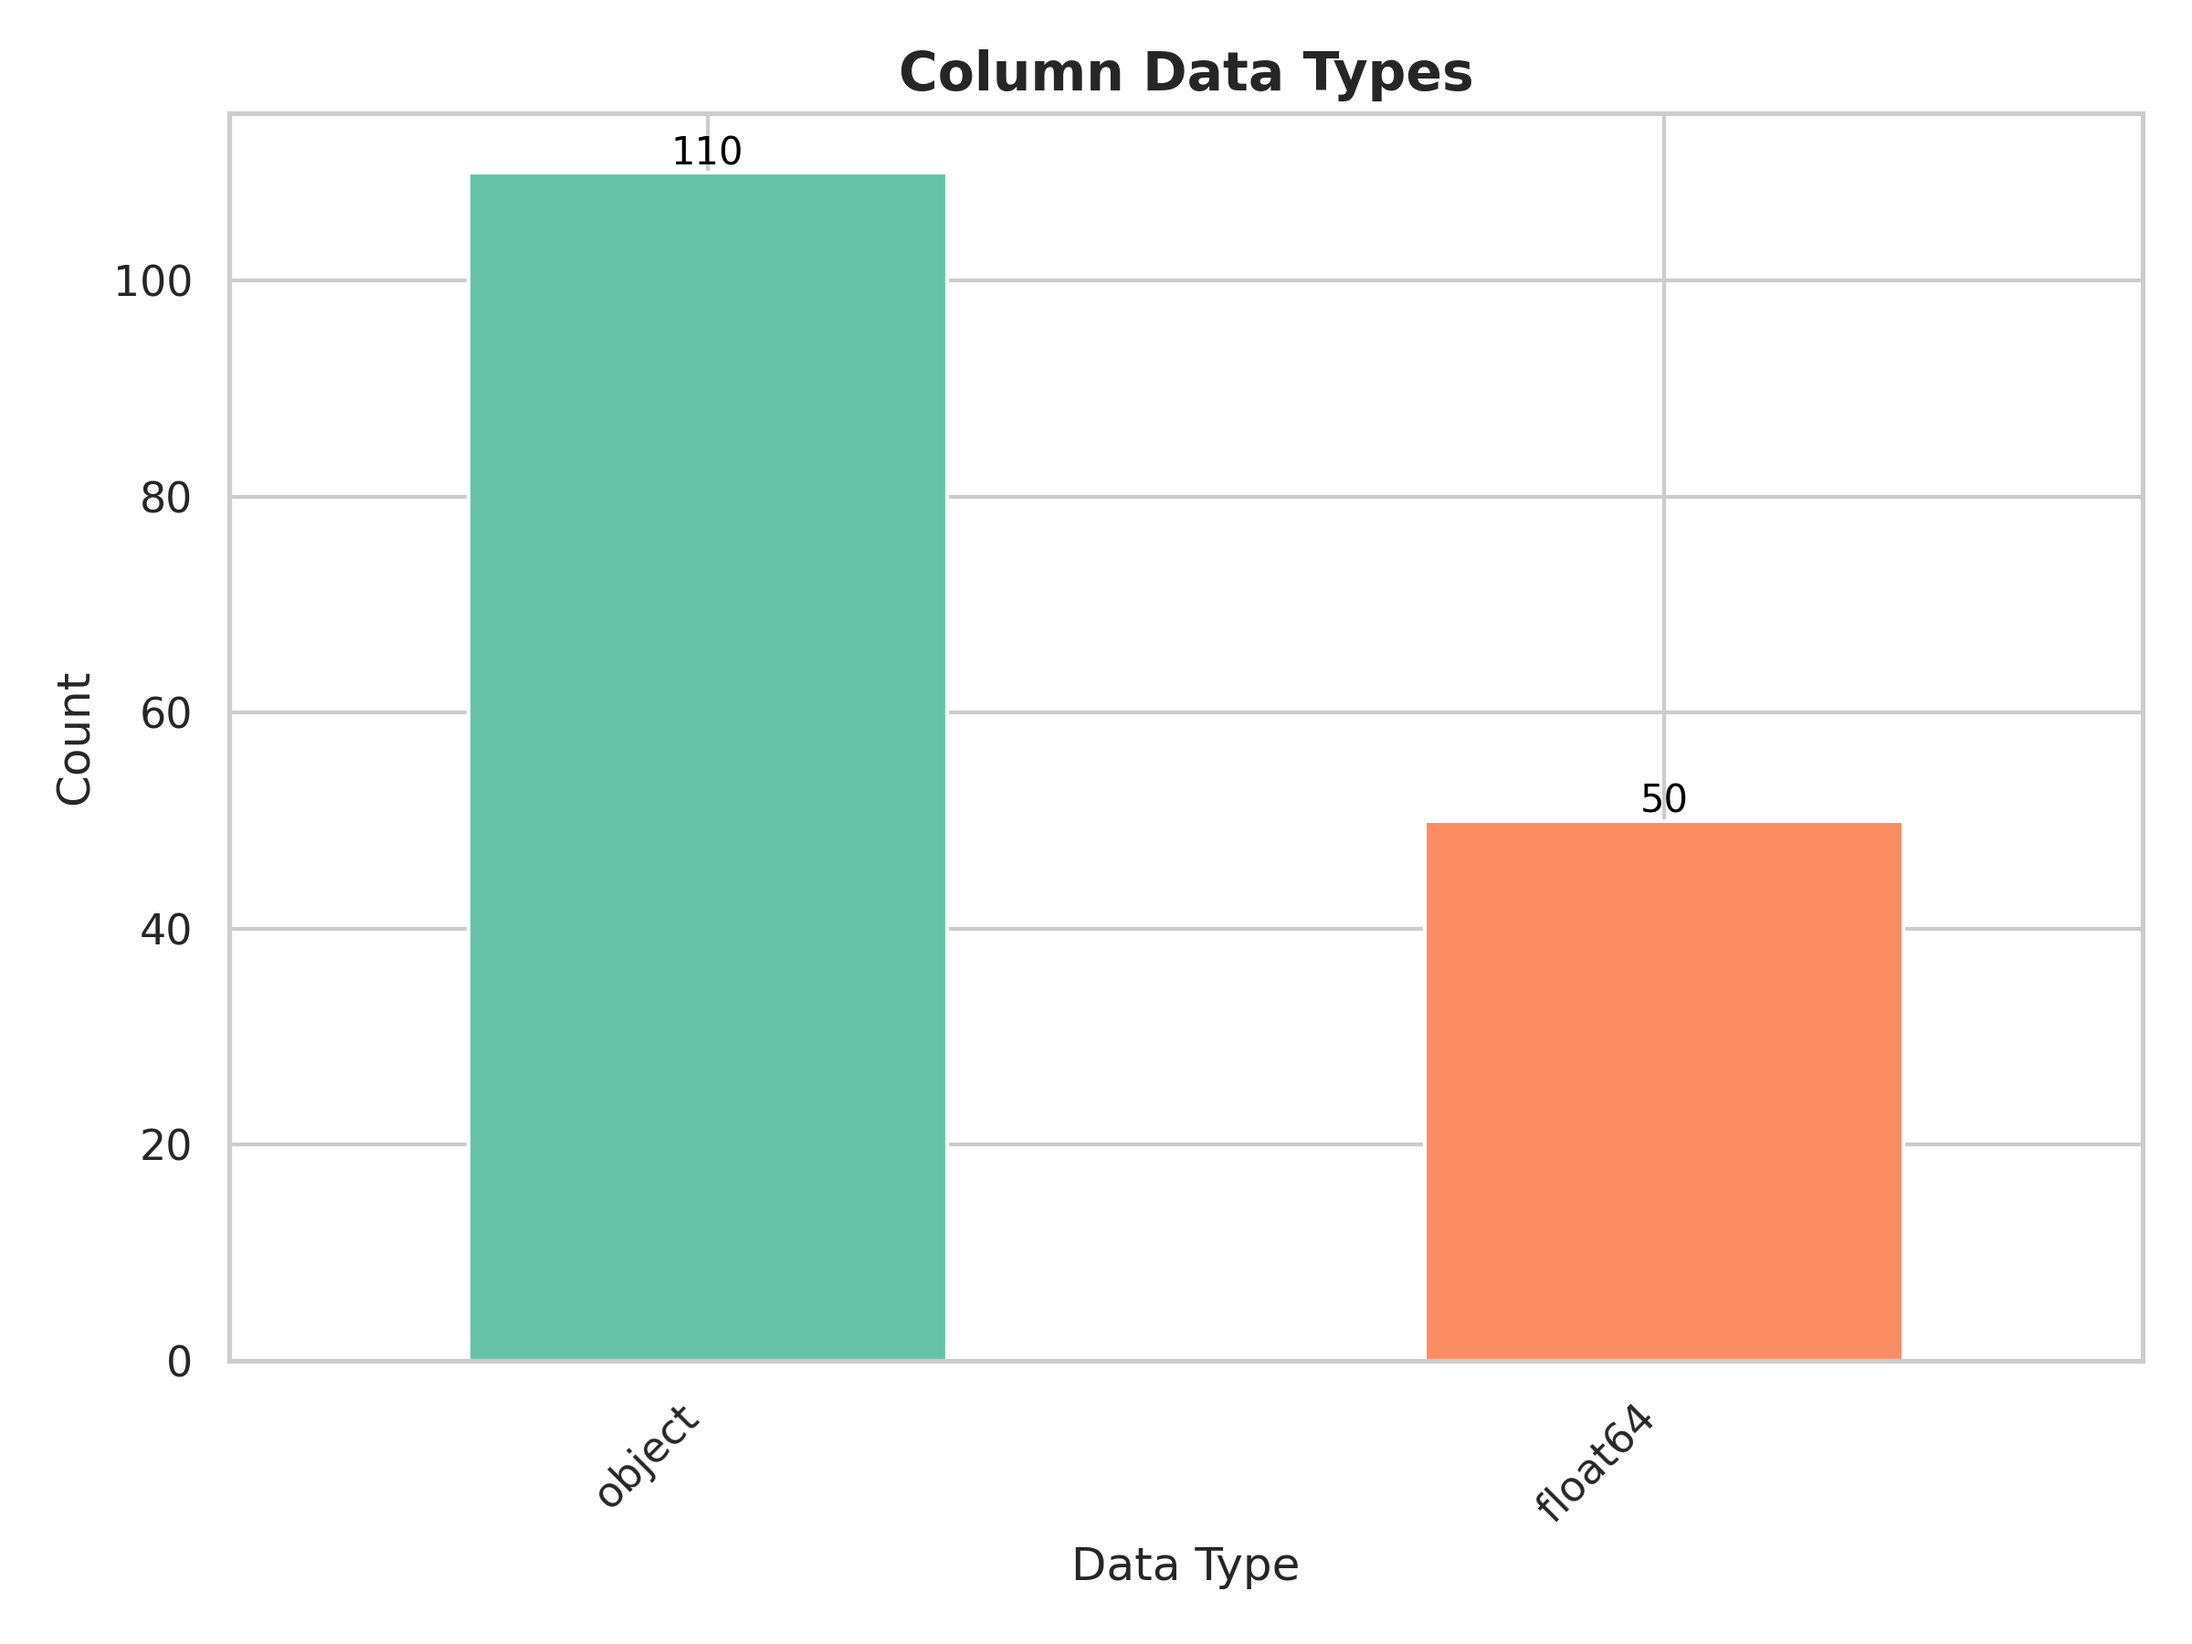
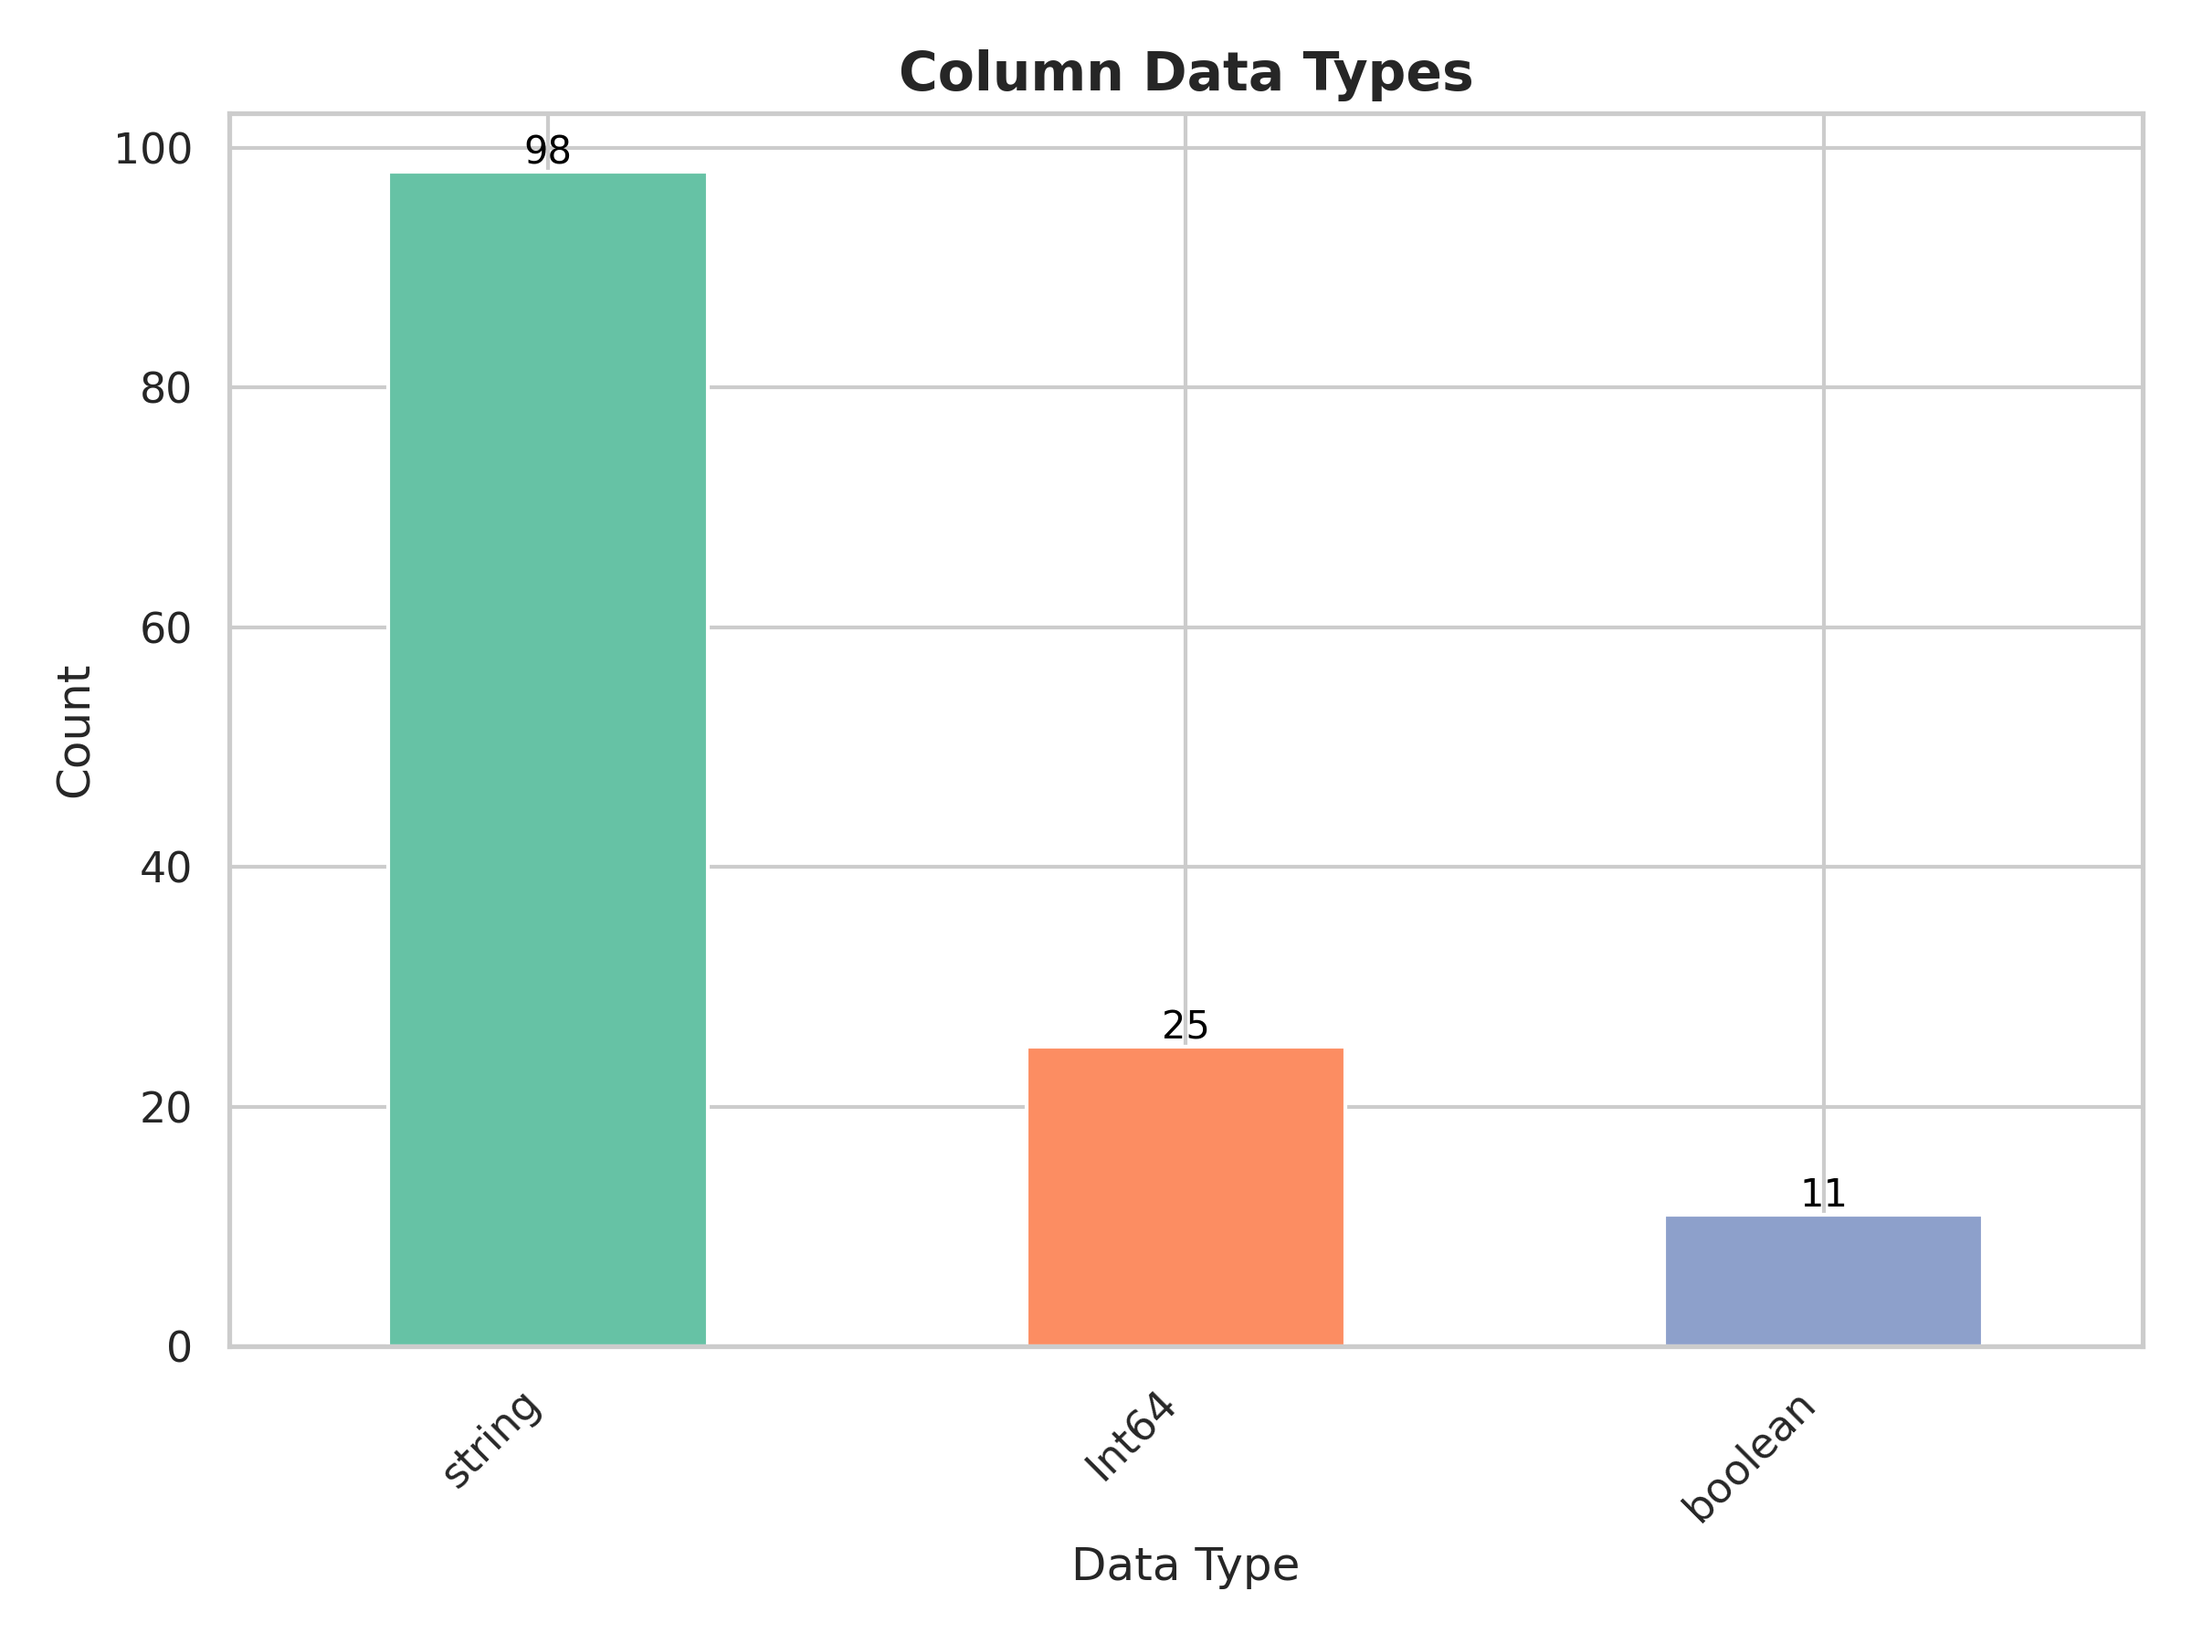
cdm8 :Merged on NAME Index For Consolidated Files

diff --git a/cleaning/eda.py b/cleaning/eda.py
@@ -1,30 +1,95 @@
-import glob
 import os
 import pandas as pd
 from dataVisualizer import DataVisualizer  
+from functools import reduce
 
+# General Path Variables 
 BASE_DIR = os.path.dirname(os.path.abspath(__file__))
-DATA_PATH = "data/"
-CONSOLIDATED_PREFIX = "DIM_CONSOLIDATED_*"
+DATA_PATH, CONSOLIDATED_PREFIX = "data/", "DIM_CONSOLIDATED_"
 VIS_DIR = os.path.join(BASE_DIR, "visualization")
 
+# Cache file (fast reload)
+CACHE_FILE = os.path.join(DATA_PATH, "combined.csv")
+
+# These are Files that have the "NAME" Column that match to the same incident acrros files 
+INDEX = "NAME"
+FILE_SUFFIXES = ["INJURY_ILLNESS", "ACCIDENTS", "HAZARD_OBSERVATIONS", "PROPERTY_DAMAGE_INCIDENT", "NEAR_MISSES"]
+
+def coerce_binary_like(s: pd.Series) -> pd.Series:
+    """Try to coerce object/string binary columns into pandas nullable boolean"""
+    mapping = {
+        "Y": True, "N": False, "YES": True, "NO": False,
+        "True": True, "False": False, "true": True, "false": False,
+        "1": True, "0": False, 1: True, 0: False
+    }
+    s2 = s.map(lambda x: mapping.get(x, x))
+    if pd.Series(s2).dropna().isin([True, False]).all():
+        return s2.astype("boolean")
+    return s
+
+
+def prep_df(df: pd.DataFrame, suffix: str):
+    # Normalize join key
+    s = (df[INDEX]
+         .astype("string")
+         .str.normalize("NFKC")
+         .str.strip()
+         .str.replace(r"\s+", " ", regex=True)
+         .str.lower())
+
+    # Move NAME to index and drop empty keys
+    df = df.drop(columns=[INDEX]).copy()
+    df.index = s
+    df = df[~df.index.isna()]
+
+    # Report duplicates after normalization
+    if not df.index.is_unique:
+        counts = df.index.to_series().value_counts()
+        print(f"[WARN] {suffix}: {counts[counts > 1].head(10)}")
+        df = df[~df.index.duplicated(keep="last")]
+
+    # Normalize column dtypes
+    for c in df.columns:
+        if df[c].dtype == "bool":
+            df[c] = df[c].astype("boolean")  
+        elif df[c].dtype == "object" and df[c].dropna().nunique() <= 2:
+            df[c] = coerce_binary_like(df[c])
+
+    # Tag columns by source
+    df.columns = [f"{c}__{suffix}" for c in df.columns]
+    return df
+
+
 def load_data():
-    files = glob.glob(os.path.join(DATA_PATH, CONSOLIDATED_PREFIX))
-    if not files:
-        print("No files matched the pattern. Check DATA_PATH and CONSOLIDATED_PREFIX.")
     dfs = []
-    #count =0 
-    for f in files:
-        #if count < 3:
-            try:
-                df = pd.read_csv(f) 
-                dfs.append(df)
-                #count +=1 
-            except Exception as e:
-                print(f"Skipping {f} due to error: {e}")
+    for sfx in FILE_SUFFIXES:
+        f = os.path.join(DATA_PATH, f"{CONSOLIDATED_PREFIX}{sfx}.csv")
+        print(f"Reading {f}")
+        try:
+            raw = pd.read_csv(f, low_memory=False)
+            if INDEX not in raw.columns:
+                print(f"[SKIP] {f}: missing {INDEX}")
+                continue
+            df = prep_df(raw, suffix=sfx)
+            dfs.append(df)
+        except Exception as e:
+            print(f"[SKIP] {f} due to error: {e}")
+
     if not dfs:
         raise RuntimeError("No valid CSVs loaded — nothing to concatenate.")
-    return pd.concat(dfs, ignore_index=True)
+
+    # Concatenate horizontally on NAME (index)
+    merged = pd.concat(dfs, axis=1, join="outer")
+
+    # Re-coerce types after merge to preserve booleans
+    merged = merged.convert_dtypes(dtype_backend="numpy_nullable")
+
+    # Bring NAME back as a column
+    merged = merged.reset_index().rename(columns={"index": INDEX})
+
+    # Save cache
+    merged.to_csv(CACHE_FILE, index=False)
+    return merged
 
 def describe_data(df: pd.DataFrame):
     print("\nData Info")
@@ -36,11 +101,22 @@ def describe_data(df: pd.DataFrame):
     print("\nData Head")
     print(df.head())
 
+    # Print column names and their types explicitly
+    print("\nData Columns")
+    for col in df.columns:
+        print(f"{col}, Type: {df[col].dtype}")
+
 if __name__ == "__main__":
+    # Load Data and Describe it 
     combined_df = load_data()
     describe_data(combined_df)
+    #combined_df = combined_df.drop(columns=REMOVED_COLUMNS)
 
-    # Visualize the Data 
+    # Generate Visualizer and Remove Uneeded Columns
     viz = DataVisualizer(df=combined_df, vis_dir=VIS_DIR)
+
+    # General Visualization of Data Types and Missing Values
     viz.visualizeDataTypes()
     viz.visualizeMissingValues()
+    viz.visualizeCorrelationHeatmap()
+    viz.visualizeVariances(0.5)

diff --git a/cleaning/dataVisualizer.py b/cleaning/dataVisualizer.py
@@ -1,6 +1,8 @@
 import os
 import matplotlib.pyplot as plt
 import seaborn as sns
+import pandas as pd
+import numpy as np 
 
 sns.set_theme(style="whitegrid", palette="muted")
 
@@ -19,6 +21,31 @@ class DataFormatter:
         if drop_zero:
             missing_counts = missing_counts[missing_counts > 0]
         return missing_counts.sort_values(ascending=False)
+
+    def get_numeric_df(self) -> pd.DataFrame:
+        return self.df.select_dtypes(include=["number"])
+   
+    def get_correlation(self) -> pd.DataFrame:
+        num_df = self.get_numeric_df()
+        return num_df.corr(numeric_only=True)
+
+    def get_variances(self) -> pd.Series:
+        num_df = self.get_numeric_df()
+        return num_df.var(numeric_only=True).sort_values(ascending=False)
+
+    def get_low_variance_features(self, threshold: float = 0.0) -> list[str]:
+        variances = self.get_variances()
+        return variances[variances <= threshold].index.tolist()
+
+    def get_high_corr_pairs(self, thresh: float = 0.9) -> pd.DataFrame:
+        corr = self.get_correlation().abs()
+        # upper triangle mask to avoid duplicates/self-pairs
+        mask = np.triu(np.ones_like(corr, dtype=bool), k=1)
+        corr_vals = corr.where(mask).stack()
+        hits = corr_vals[corr_vals >= thresh].sort_values(ascending=False)
+        return hits.reset_index().rename(columns={"level_0": "feature_1",
+                                                  "level_1": "feature_2",
+                                                  0: "abs_corr"})
 
 
 class DataVisualizer:
@@ -77,4 +104,53 @@ class DataVisualizer:
 
         plt.tight_layout()
         plt.savefig(os.path.join(self.vis_dir, "missing_values_bar.png"), dpi=300)
+        plt.close()
+
+
+    
+    def visualizeCorrelationHeatmap(self):
+        corr = self.formatter.get_correlation()
+        if corr.empty:
+            print("No numeric columns for correlation heatmap.")
+            return
+        # mask the upper triangle for cleaner view
+        mask = np.triu(np.ones_like(corr, dtype=bool))
+        plt.figure(figsize=(min(18, 1.0 + 0.6 * corr.shape[1]), 12))
+        sns.heatmap(corr, mask=mask, cmap="coolwarm", vmin=-1, vmax=1,
+                    square=True, linewidths=0.5, cbar_kws={"shrink": 0.8})
+        plt.title("Correlation Heatmap (Numeric Features)", fontsize=14, weight="bold")
+        plt.tight_layout()
+        plt.savefig(os.path.join(self.vis_dir, "correlation_heatmap.png"), dpi=300)
+        plt.close()
+
+        # corr.to_csv(os.path.join(self.vis_dir, "correlation_matrix.csv"))
+
+        # And top correlated pairs (abs >= 0.9 by default)
+        top_pairs = self.formatter.get_high_corr_pairs(thresh=0.9)
+        if not top_pairs.empty:
+            top_pairs.to_csv(os.path.join(self.vis_dir, "high_corr_pairs.csv"), index=False)
+
+    # Might not be as Important as it captures features that are important for injury prevention
+    def visualizeVariances(self, threshold):
+        variances = self.formatter.get_variances()
+        if variances.empty:
+            print("No numeric columns for variance plot.")
+            return
+
+        plt.figure(figsize=(max(12, len(variances) * 0.5), 6))
+        ax = variances.plot(kind="bar", width=0.7)
+        plt.title("Feature Variance (Numeric)", fontsize=14, weight="bold")
+        plt.xlabel("Features"); plt.ylabel("Variance")
+        plt.xticks(rotation=45, ha="right")
+
+        if threshold is not None:
+            plt.axhline(y=threshold, linestyle="--", linewidth=1.2)
+            # annotate how many will be dropped
+            low_count = (variances <= threshold).sum()
+            plt.text(0.99, 0.95,
+                     f"Threshold={threshold:.4g} → drop {low_count} feature(s)",
+                     transform=ax.transAxes, ha="right", va="top", fontsize=10)
+
+        plt.tight_layout()
+        plt.savefig(os.path.join(self.vis_dir, "feature_variances.png"), dpi=300)
         plt.close()

diff --git a/README.md b/README.md
@@ -1,13 +1,8 @@
 
 ## Directory Structure
 - `src/` – core code and modules
-- `notebooks/` – Jupyter notebooks for EDA and experiments
+- `cleaning/` – EDA and general Data Cleaning
 - `data/` – Incident Data (uncommited by gitignore)
-
-## Resource Allocation on NOTS
-To Submit Request For Resources: 
-    sbatch submit.sbatch
-
 
 ## Setup
 1. cp -r /projects/dsci435/fmcsafetyevents_fa25/data . 
@@ -15,3 +10,12 @@ To Submit Request For Resources:
 3. source .venv/bin/activate
 4. pip install -U pip
 4. pip install -r requirements.txt
+
+## Resource Allocation on NOTS
+To Submit Request For Resources: 
+    sbatch submit.sbatch
+
+# Data Cleaning
+In order to view the EDA, you can run the following 'python3 cleaning/eda.py'
+
+
